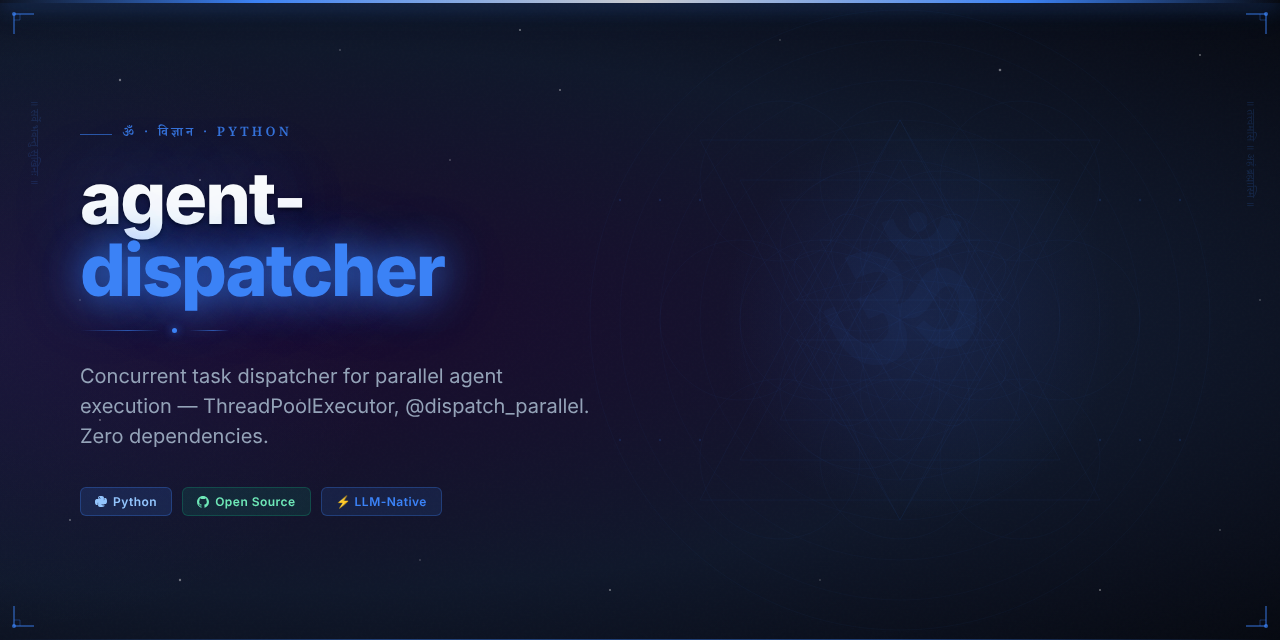
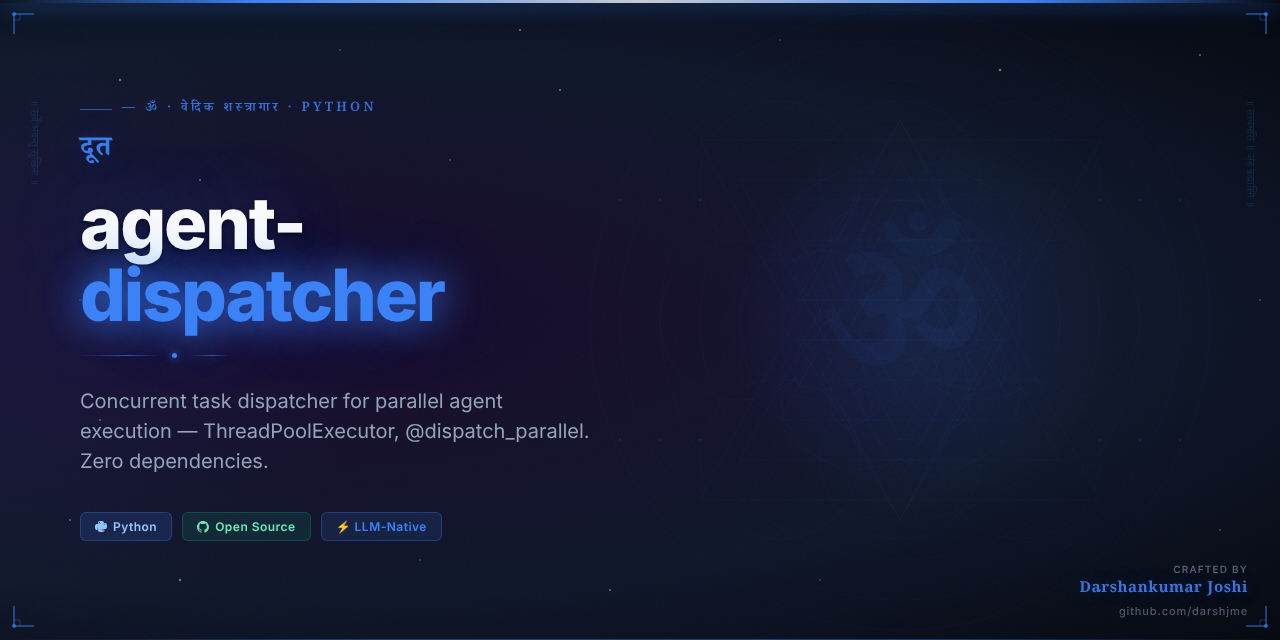
feat: add Vedic Arsenal hero image and updated README
Part of darshjme/arsenal — 100 production-grade Python libraries for LLM agents.
Vedic branding: ancient philosophy meets modern AI engineering.

Changed region(s): [[0.0625, 0.2812, 0.4688, 0.8438], [0.0625, 0.1562, 0.2812, 0.25], [0.8438, 0.875, 0.9688, 0.9688]]

diff --git a/README.md b/README.md
@@ -1,10 +1,12 @@
 <div align="center">
 
-<img src="assets/agent-dispatcher-hero.png" alt="agent-dispatcher — Vedic Arsenal" width="100%" />
+<img src="assets/agent-dispatcher-hero.png" alt="agent-dispatcher — Vedic Arsenal by Darshankumar Joshi" width="100%" />
 
 # 🌊 agent-dispatcher
 
-### *दूत* — Duta — the divine messenger
+<h3><em>दूत</em></h3>
+
+> *Duta — the divine messenger*
 
 **Concurrent task dispatcher for parallel agent execution — ThreadPoolExecutor, @dispatch_parallel. Zero dependencies.**
 
@@ -39,6 +41,19 @@ Or clone directly:
 git clone https://github.com/darshjme/agent-dispatcher.git
 cd agent-dispatcher
 pip install -e .
+```
+
+## How It Works
+
+```mermaid
+flowchart LR
+    A[Input] --> B[agent-dispatcher]
+    B --> C{Process}
+    C -- Success --> D[Output]
+    C -- Error --> E[Handle / Retry]
+    E --> B
+    style B fill:#6b21a8,color:#fff
+    note["Dispatcher — Zero Dependencies"]
 ```
 
 ## Quick Start
@@ -90,7 +105,7 @@ MIT — use freely, build freely.
 
 <div align="center">
 
-**Built with 🌊 by [Darshankumar Joshi](https://github.com/darshjme)**
+**Built with 🌊 by [Darshankumar Joshi](https://github.com/darshjme)** · [@thedarshanjoshi](https://twitter.com/thedarshanjoshi)
 
 *"कर्मण्येवाधिकारस्ते मा फलेषु कदाचन"*
 *Your right is to action alone, never to the fruits thereof.*
